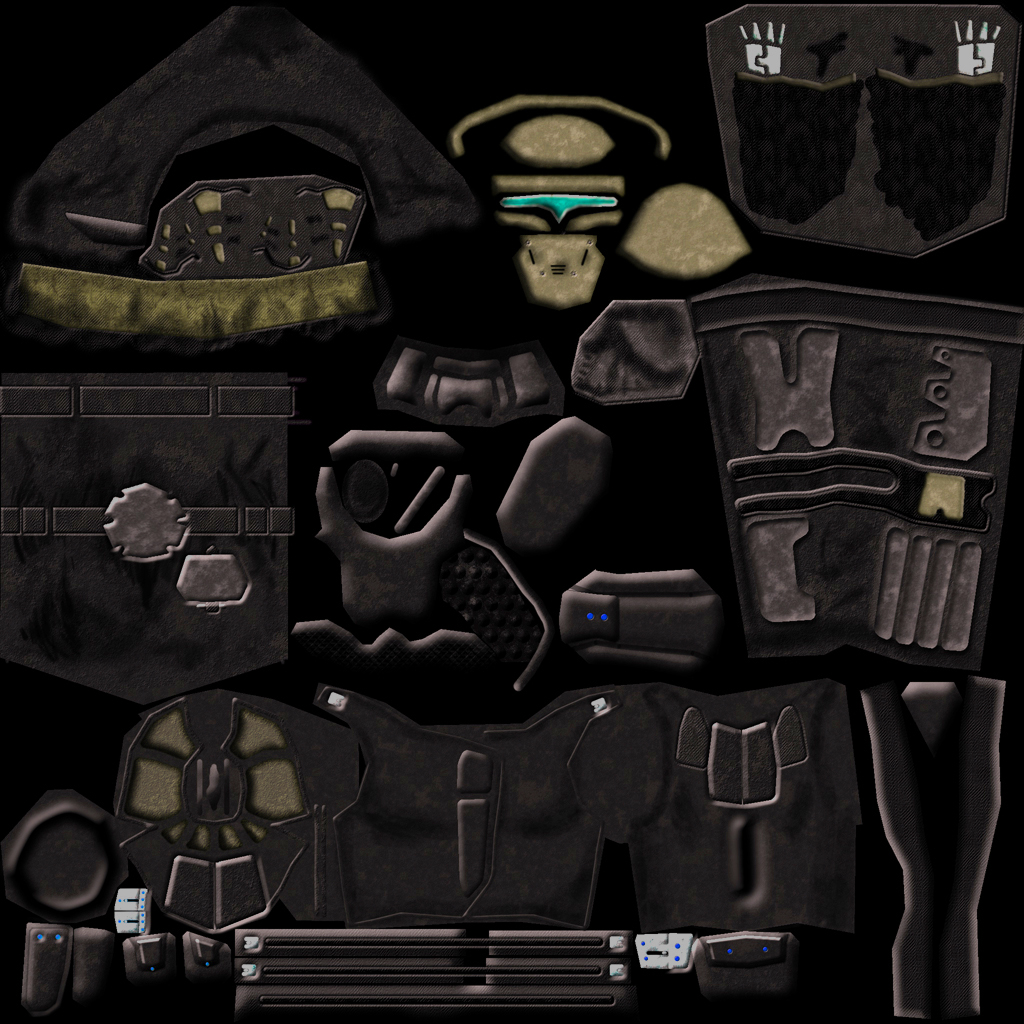
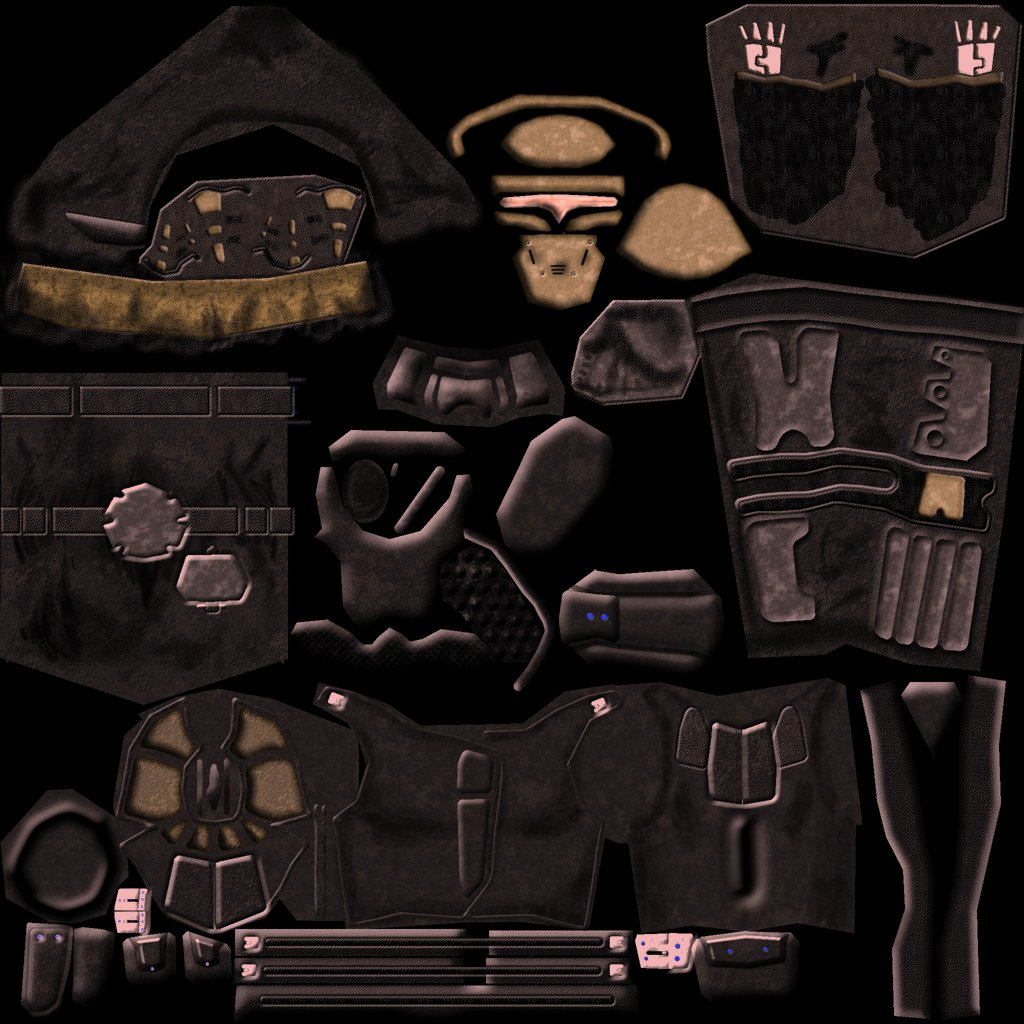
release ai on map start until we can properly balance, tweak delta team skin
Former-commit-id: 75f55fbd5b55db2800751b8a9fad210ea51f53ca

diff --git a/src/game/ai.cpp b/src/game/ai.cpp
@@ -8,12 +8,12 @@ namespace ai
 		loopv(clients)
 		{
 			clientinfo *ci = clients[i];
-			if(ci->clientnum < 0 || ci->state.aitype != AI_NONE || !ci->name[0] || ci->clientnum == exclude)
+			if(ci->clientnum < 0 || ci->state.isai() || !ci->name[0] || ci->clientnum == exclude)
 				siblings[i] = -1;
 			else
 			{
 				siblings[i] = 0;
-				loopvj(clients) if(clients[j]->state.aitype != AI_NONE && clients[j]->state.ownernum == ci->clientnum)
+				loopvj(clients) if(clients[j]->state.isai(-1, false) && clients[j]->state.ownernum == ci->clientnum)
 					siblings[i]++;
 			}
 		}
@@ -80,7 +80,7 @@ namespace ai
 
 	void refreshai()
 	{
-		loopv(clients) if(clients[i]->state.aitype != AI_NONE && clients[i]->state.aireinit >= 0)
+		loopv(clients) if(clients[i]->state.isai(-1, false))
 		{
 			clientinfo *ci = clients[i];
 			int team = chooseteam(ci, ci->team);
@@ -110,7 +110,7 @@ namespace ai
 
 	bool delai(int type)
 	{
-		loopvrev(clients) if(clients[i]->state.aitype == type)
+		loopvrev(clients) if(clients[i]->state.isai(type, false))
 		{
 			deleteai(clients[i]);
 			return true;
@@ -152,8 +152,8 @@ namespace ai
 	}
 
 	void removeai(clientinfo *ci, bool complete)
-	{
-		loopv(clients) if(clients[i]->state.aitype != AI_NONE && clients[i]->state.ownernum == ci->clientnum)
+	{ // either schedules a removal, or someone else to assign to
+		loopv(clients) if(clients[i]->state.isai() && clients[i]->state.ownernum == ci->clientnum)
 			shiftai(clients[i], 2, complete ? -1 : findaiclient(ci->clientnum));
 	}
 
@@ -165,23 +165,21 @@ namespace ai
 		loopv(clients)
 		{
 			clientinfo *ci = clients[i];
-			if(ci->clientnum < 0 || ci->state.aitype != AI_NONE || !ci->name[0] || ci->clientnum == exclude)
+			if(ci->clientnum < 0 || ci->state.isai() || !ci->name[0] || ci->clientnum == exclude)
 				siblings[i] = -1;
 			else
 			{
 				siblings[i] = 0;
-				loopvj(clients) if(clients[j]->state.aitype != AI_NONE && clients[j]->state.ownernum == ci->clientnum)
+				loopvj(clients) if(clients[j]->state.isai(-1, false) && clients[j]->state.ownernum == ci->clientnum)
 					siblings[i]++;
-				if(!siblings.inrange(hi) || siblings[i] > siblings[hi])
-					hi = i;
-				if(!siblings.inrange(lo) || siblings[i] < siblings[lo])
-					lo = i;
+				if(!siblings.inrange(hi) || siblings[i] > siblings[hi]) hi = i;
+				if(!siblings.inrange(lo) || siblings[i] < siblings[lo]) lo = i;
 			}
 		}
 		if(siblings.inrange(hi) && siblings.inrange(lo) && (siblings[hi]-siblings[lo]) > 1)
 		{
 			clientinfo *ci = clients[hi];
-			loopv(clients) if(clients[i]->state.aitype != AI_NONE && clients[i]->state.ownernum == ci->clientnum)
+			loopv(clients) if(clients[i]->state.isai(-1, false) && clients[i]->state.ownernum == ci->clientnum)
 			{
 				shiftai(clients[i], 1, clients[lo]->clientnum);
 				return true;
@@ -194,24 +192,22 @@ namespace ai
 	{
 		int m = sv_botmaxskill > sv_botminskill ? sv_botmaxskill : sv_botminskill,
 			n = sv_botmaxskill < sv_botminskill ? sv_botmaxskill : sv_botminskill;
-		loopv(clients) if(clients[i]->state.aitype != AI_NONE)
+		loopv(clients) if(clients[i]->state.isai(-1, false))
 		{
 			clientinfo *ci = clients[i];
 			if(ci->state.skill > m || ci->state.skill < n)
-			{
+			{ // needs re-skilling
 				ci->state.skill = (m != n ? rnd(m-n) + n + 1 : m);
 				if(ci->state.aireinit <= 1 && ci->state.aireinit >= 0)
 					ci->state.aireinit = 1;
 			}
 		}
-		loopvrev(clients) if(clients[i]->state.aitype != AI_NONE)
-			reinitai(clients[i]);
+		loopvrev(clients) if(clients[i]->state.isai()) reinitai(clients[i]);
 	}
 
 	void clearai()
-	{
-		loopvrev(clients) if(clients[i]->state.aitype != AI_NONE)
-			deleteai(clients[i]);
+	{ // clear and remove all ai immediately
+		loopvrev(clients) if(clients[i]->state.isai()) deleteai(clients[i]);
 	}
 
 	void checkai()
@@ -226,8 +222,8 @@ namespace ai
 				if(m_team(gamemode, mutators))
 				{
 					int teams = numteams(gamemode, mutators), count = balance%teams, teambal = minbal*teams;
-					if(count) balance += teams-count;
-					if(balance < teambal) balance += teambal-balance;
+					if(count) balance += teams-count; // try to even out the player count for all teams
+					if(balance < teambal) balance = teambal; // just ensure we've got minbal on each team
 				}
 				while(numclients(-1, true, false) < balance) if(!addai(AI_BOT, -1)) break;
 				while(numclients(-1, true, false) > balance) if(!delai(AI_BOT)) break;

diff --git a/src/game/server.cpp b/src/game/server.cpp
@@ -146,6 +146,11 @@ namespace server
 			gamestate::respawn(millis);
 			o = vec(-1e10f, -1e10f, -1e10f);
 		}
+
+		bool isai(int type = -1, bool all = true)
+		{
+			return (type < 0 ? aitype != AI_NONE : aitype == type) && (all || aireinit >= 0 && ownernum >= 0);
+		}
 	};
 
 	struct savedscore
@@ -379,8 +384,8 @@ namespace server
 		int n = 0;
 		loopv(clients)
 			if(clients[i]->clientnum >= 0 && clients[i]->name[0] && clients[i]->clientnum != exclude &&
-				(!nospec || clients[i]->state.state != CS_SPECTATOR) && (!noai || clients[i]->state.aitype == AI_NONE))
-				n++;
+				(!nospec || clients[i]->state.state != CS_SPECTATOR) && (!noai || !clients[i]->state.isai(-1, false)))
+					n++;
 		return n;
 	}
 
@@ -405,9 +410,9 @@ namespace server
 		static string cname;
 		const char *chat = team && m_team(gamemode, mutators) ? teamtype[ci->team].chat : teamtype[TEAM_NEUTRAL].chat;
 		s_sprintf(cname)("\fs%s%s", chat, name);
-		if(!name[0] || ci->state.aitype != AI_NONE || (dupname && duplicatename(ci, name)))
+		if(!name[0] || ci->state.isai() || (dupname && duplicatename(ci, name)))
 		{
-			s_sprintfd(s)(" [\fs%s%d\fS]", ci->state.aitype != AI_NONE ? "\fc" : "\fm", ci->clientnum);
+			s_sprintfd(s)(" [\fs%s%d\fS]", ci->state.isai() ? "\fc" : "\fm", ci->clientnum);
 			s_strcat(cname, s);
 		}
 		s_strcat(cname, "\fS");
@@ -682,7 +687,7 @@ namespace server
 		servstate &gs = ci->state;
 		spawnstate(ci);
 		int spawn = pickspawn(ci);
-		sendf(ci->state.aitype != AI_NONE ? ci->state.ownernum : ci->clientnum, 1, "ri8v",
+		sendf(ci->state.isai() ? ci->state.ownernum : ci->clientnum, 1, "ri8v",
 			SV_SPAWNSTATE, ci->clientnum, spawn, gs.state, gs.frags, gs.lifesequence, gs.health, gs.gunselect, GUN_MAX, &gs.ammo[0]);
 		gs.lastrespawn = gs.lastspawn = gamemillis;
 	}
@@ -965,8 +970,7 @@ namespace server
 		loopv(clients)
 		{
 			clientinfo *oi = clients[i];
-			if((oi->state.state==CS_SPECTATOR && !haspriv(oi, PRIV_MASTER, false)) || oi->state.aitype != AI_NONE)
-				continue;
+			if((oi->state.state==CS_SPECTATOR && !haspriv(oi, PRIV_MASTER, false)) || oi->state.isai()) continue;
 			maxvotes++;
 			if(!oi->mapvote[0]) continue;
 			votecount *vc = NULL;
@@ -1196,9 +1200,9 @@ namespace server
 			fclose(mapdata[i]);
 			mapdata[i] = NULL;
 		}
-		mapsending = false;
+		maprequest = mapsending = false;
         stopdemo();
-		maprequest = false;
+		ai::clearai();
 		gamemode = mode >= 0 ? mode : sv_defaultmode;
 		mutators = muts >= 0 ? muts : sv_defaultmuts;
 		modecheck(&gamemode, &mutators);
@@ -1225,7 +1229,6 @@ namespace server
 
 		if(m_demo(gamemode))
 		{
-            ai::clearai();
             loopv(clients) if(!clients[i]->local) disconnect_client(clients[i]->clientnum, DISC_PRIVATE);
 		}
 
@@ -1348,7 +1351,7 @@ namespace server
 	clientinfo *choosebestclient(clientinfo *ci = NULL)
 	{
 		clientinfo *best = NULL;
-		loopv(clients) if(clients[i]->name[0] && clients[i]->state.aitype == AI_NONE && (!ci || ci != clients[i]))
+		loopv(clients) if(clients[i]->name[0] && !clients[i]->state.isai() && (!ci || ci != clients[i]))
 		{
 			clientinfo *cs = clients[i];
 			if(haspriv(cs, PRIV_MASTER)) { best = cs; break; }
@@ -1618,7 +1621,7 @@ namespace server
 		sendf(-1, 1, "ri7ivx", SV_SHOTFX, ci->clientnum,
 			e.gun, e.power, e.from[0], e.from[1], e.from[2],
 					e.shots.length(), e.shots.length()*sizeof(ivec)/sizeof(int), e.shots.getbuf(),
-						ci->state.aitype != AI_NONE ? ci->state.ownernum : ci->clientnum);
+						ci->state.isai() ? ci->state.ownernum : ci->clientnum);
 		gs.shotdamage += guntype[e.gun].damage*e.gun*e.num;
 	}
 
@@ -1905,7 +1908,7 @@ namespace server
         }
 
 		int numplayers = 0;
-		loopv(clients) if(clients[i] && clients[i]->state.aitype == AI_NONE) numplayers++;
+		loopv(clients) if(clients[i] && !clients[i]->state.isai()) numplayers++;
 		putint(p, numplayers);
 		putint(p, 6);					// number of attrs following
 		putint(p, GAMEVERSION);			// 1
